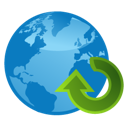
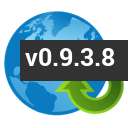
Fixed OAuth1Processor bug

Changed region(s): [[0.1562, 0.3125, 1.0, 0.6562]]

diff --git a/chrome/js/requester/helpers/models/OAuth1Processor.js b/chrome/js/requester/helpers/models/OAuth1Processor.js
@@ -128,6 +128,7 @@ var OAuth1Processor = Backbone.Model.extend({
 
         var bodyParams;
 
+        console.log(method, "OAuth method is");
         if (isMethodWithBody(method)) {
             bodyParams = requestBody.get("dataAsObjects");
         }
@@ -136,14 +137,22 @@ var OAuth1Processor = Backbone.Model.extend({
         }
 
         var params = _.union(urlParams, bodyParams);
+        var param;
+        var existingOAuthParams = _.union(signatureParams, [{key: "oauth_signature", value: ""}]);
+        var pos;
 
         for (i = 0; i < params.length; i++) {
-            var param = params[i];
+            param = params[i];
             if (param.key) {
-                param.value = pm.envManager.getCurrentValue(param.value);
-                message.parameters.push([param.key, param.value]);
+                pos = findPosition(existingOAuthParams, "key", param.key);
+                if (pos < 0) {
+                    param.value = pm.envManager.getCurrentValue(param.value);
+                    message.parameters.push([param.key, param.value]);
+                }
             }
         }
+
+        console.log(message);
 
         var accessor = {};
         if (this.get("consumerSecret") !=='') {

diff --git a/scripts/generate_icon.py b/scripts/generate_icon.py
@@ -21,8 +21,8 @@ def generate_base_icon(source, version, icon_type):
 
     draw = ImageDraw.Draw(image)
     box = [(20, 40), (128, 80)]
-    draw.rectangle(box, fill=128)
-    draw.text((25, 40), version, (0, 0, 0), font=font)
+    draw.rectangle(box, fill=(50, 50, 50))
+    draw.text((25, 40), version, (255, 255, 255), font=font)
     draw = ImageDraw.Draw(image)
 
     image.save("../chrome/icon.png", "PNG")
